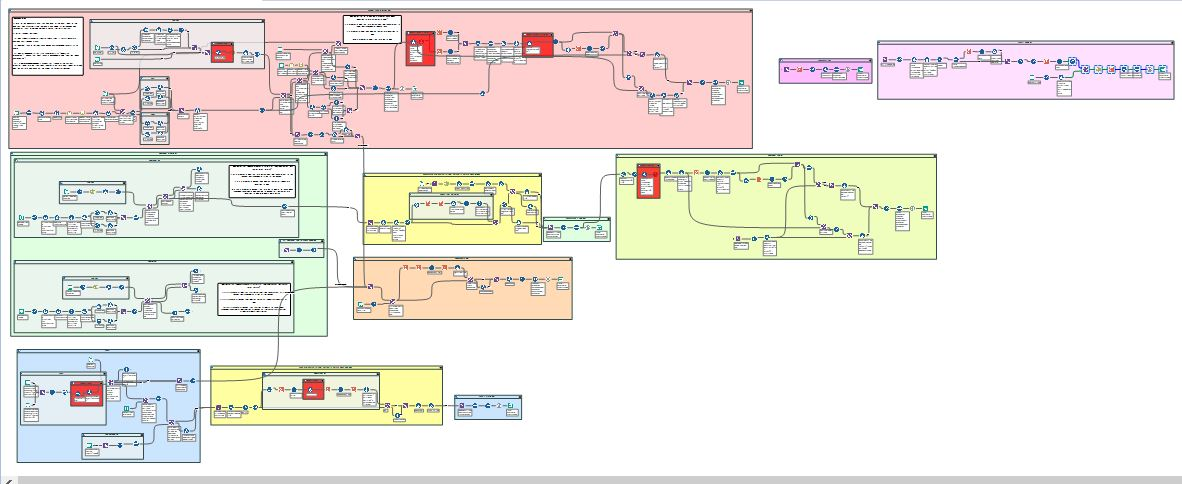
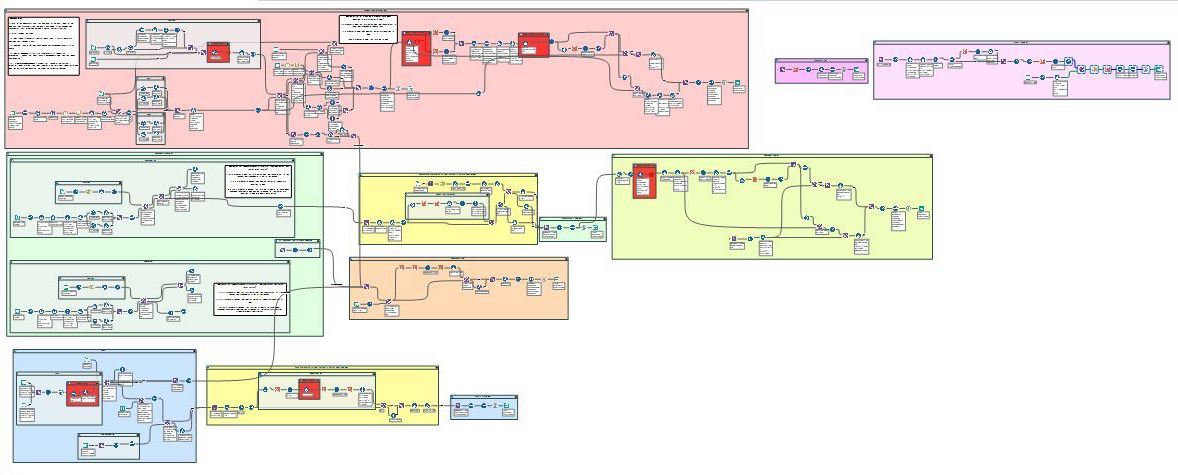
modified:   css/styles.css 	deleted:    images/Alteryx Workflow.JPG 	modified:   images/alteryx_workflow.jpg 	modified:   index.html

Changed region(s): [[0.0, 0.0, 1.0, 1.0]]

diff --git a/css/styles.css b/css/styles.css
@@ -9,4 +9,15 @@
     Description: This file contains all the styles associated with the page
     that don't come from third party libraries. This file gets compiled using
     Gulp and send to the /css folder which is then loaded on the page.
-*/body{font-family:'Lato', sans-serif;font-size:16px}body.active{overflow:hidden;z-index:-1}.no-js #experience-timeline>div{background:#fff;padding:10px;margin-bottom:10px;border:1px solid #dcd9d9}.no-js #experience-timeline>div h3{font-size:1.5em;font-weight:300;color:#374054;display:inline-block;margin:0}.no-js #experience-timeline>div h4{font-size:1.2em;font-weight:300;color:#7e8890;margin:0 0 15px 0}.no-js #experience-timeline>div p{color:#74808a;font-size:0.9em;margin:0}.no-js #experience-timeline:before,.no-js #experience-timeline:after{content:none}@keyframes dropHeader{0%{transform:translateY(-100%)}100%{transform:translateY(0)}}header{position:absolute;top:0;left:0;right:0;text-align:center;z-index:10;animation-name:dropHeader;animation-iteration-count:1;animation-timing-function:ease;animation-duration:0.75s}header ul{display:inline-block;background:#fff;text-align:center;padding:10px;margin:0;border-bottom-right-radius:4px;border-bottom-left-radius:4px}header li{display:inline-block}header a{display:block;color:#3498db;padding:10px}header a:hover{color:#217dbb;text-decoration:none;background:#eee;border-radius:4px}header a:focus{color:#3498db;text-decoration:none}header.active{display:block}header.sticky{position:fixed;z-index:999}#menu.active{display:block}#mobile-menu-open{display:none;cursor:pointer;position:fixed;right:15px;top:10px;color:#3498db;font-size:1.5em;z-index:20;padding:0 7px;border-radius:4px;background:#fff}#mobile-menu-close{display:none;text-align:right;width:100%;background:#fff;font-size:1.5em;padding-right:15px;padding-top:10px;cursor:pointer;color:#3498db}#mobile-menu-close span{font-size:0.5em;text-transform:uppercase}#mobile-menu-close i{vertical-align:middle}footer{padding:50px 0}.copyright{padding-top:20px}.copyright p{margin:0;color:#74808a}.top{text-align:center}.top span{cursor:pointer;display:block;margin:15px auto 0 auto;width:35px;height:35px;border-radius:50%;border:3px solid #b9bfc4;text-align:center}.top i{color:#74808a}.social{text-align:right}.social ul{margin:5px 0 0 0;padding:0}.social li{display:inline-block;font-size:1.25em;list-style:none}.social a{display:block;color:#74808a;padding:10px}.social a:hover{color:#3498db}.btn-rounded-white{display:inline-block;color:#fff;padding:15px 25px;border:3px solid #fff;border-radius:30px;transition:.5s ease all}.btn-rounded-white:hover{color:#3498db;background:#fff;text-decoration:none}.shadow{box-shadow:0 1px 3px rgba(0,0,0,0.12),0 1px 2px rgba(0,0,0,0.24)}.shadow-large{box-shadow:0 3px 6px rgba(0,0,0,0.08),0 3px 6px rgba(0,0,0,0.15)}.heading{position:relative;display:inline-block;font-size:2em;font-weight:300;margin:0 0 30px 0}.heading:after{position:absolute;content:'';top:100%;height:1px;width:50px;left:0;right:0;margin:0 auto;background:#3498db}.background-alt{background:#f2f2f5}#lead{position:relative;height:100vh;min-height:500px;max-height:1080px;background:url(../images/lead-bg.jpg);background-size:cover;padding:15px;overflow:hidden}#lead-content{position:absolute;z-index:10;top:50%;left:50%;transform:translate(-50%, -50%);text-align:center}#lead-content h1,#lead-content h2{margin:0}#lead-content h1{color:#fff;font-weight:900;font-size:5em;text-transform:uppercase;letter-spacing:0.05em;line-height:0.9em}#lead-content h2{color:#a0cfee;font-weight:500;font-size:2.25em;margin-bottom:15px}#lead-overlay{position:absolute;height:100%;width:100%;top:0;right:0;bottom:0;left:0;background:rgba(33,125,187,0.8);z-index:1}#lead-down{position:absolute;left:0;right:0;width:100%;text-align:center;z-index:10;bottom:15px;color:#fff}#lead-down span{cursor:pointer;display:block;margin:0 auto;width:35px;height:35px;border-radius:50%;border:3px solid #a0cfee;text-align:center}#lead-down i{animation:pulsate 1.5s ease;animation-iteration-count:infinite;padding-top:5px}@keyframes pulsate{0%{transform:scale(1, 1)}50%{transform:scale(1.2, 1.2)}100%{transform:scale(1, 1)}}#about{padding:75px 15px;border-bottom:1px solid #dcd9d9}#about h2{color:#374054}#about p{color:#74808a;margin:0}#experience{padding:50px 15px;text-align:center;border-bottom:1px solid #dcd9d9}#experience h2{color:#374054}#experience-timeline{margin:30px auto 0 auto;position:relative;max-width:1000px}#experience-timeline:before{position:absolute;content:'';top:0;bottom:0;left:303px;right:auto;height:100%;width:3px;background:#3498db;z-index:0}#experience-timeline:after{position:absolute;content:'';width:3px;height:40px;background:#3498db;background:linear-gradient(to bottom, #3498db, rgba(52,152,219,0));top:100%;left:303px}.vtimeline-content{margin-left:350px;background:#fff;border:1px solid #e6e6e6;padding:15px;border-radius:3px;text-align:left}.vtimeline-content h3{font-size:1.5em;font-weight:300;color:#374054;display:inline-block;margin:0}.vtimeline-content h4{font-size:1.2em;font-weight:300;color:#7e8890;margin:0 0 15px 0}.vtimeline-content p{color:#74808a;font-size:0.9em;margin:0}.vtimeline-point{position:relative;display:block;vertical-align:top;margin-bottom:30px}.vtimeline-icon{position:relative;color:#fff;width:50px;height:50px;background:#3498db;border-radius:50%;float:left;z-index:99;margin-left:280px}.vtimeline-icon i{display:block;font-size:2em;margin-top:10px}.vtimeline-date{width:260px;text-align:right;position:absolute;left:0;top:10px;font-weight:300;color:#374054}#education{padding:50px 15px 20px 15px;border-bottom:1px solid #dcd9d9;text-align:center}#education h2{color:#374054;margin-bottom:50px}.education-block{max-width:700px;margin:0 auto 30px auto;padding:15px;border:1px solid #dcd9d9;text-align:left}.education-block h3{font-weight:500;float:left;margin:0;color:#374054}.education-block span{color:#74808a;float:right}.education-block h4{color:#74808a;clear:both;font-weight:500;margin:0 0 15px 0}.education-block p,.education-block ul{margin:0;color:#74808a;font-size:0.9em}.education-block ul{padding:0 0 0 15px}#projects{padding:50px 15px;border-bottom:1px solid #dcd9d9;text-align:center}#projects h2{color:#374054;margin-bottom:50px}.project{position:relative;max-width:900px;margin:0 auto 30px auto;overflow:hidden;background:#fff;border-radius:4px}.project-image{float:left}.project-info{position:absolute;top:50%;transform:translateY(-50%);margin-left:300px;padding:15px}.project-info h3{font-size:1.5em;font-weight:300;color:#374054;margin:0 0 15px 0}.project-info p{color:#74808a;margin:0 0 15px 0;font-size:0.9em}.no-image .project-info{position:relative;margin:0;padding:30px 15px;transform:none}#more-projects{display:none}#skills{padding:50px 15px;text-align:center}#skills h2{color:#374054;margin-bottom:50px}#skills ul{display:block;margin:0 auto;padding:0;max-width:800px}#skills li{display:inline-block;margin:7px;padding:5px 10px;color:#374054;background:#e4e4ea;list-style:none;cursor:default;font-size:1.2em}#contact{padding:50px 15px;background:#3498db;text-align:center}#contact h2{margin:0 0 15px 0;color:#fff;font-weight:500}#contact-form{max-width:500px;margin:0 auto}#contact-form input,#contact-form textarea{display:block;width:100%;padding:10px;border-radius:4px;border:none;margin-bottom:10px;background:#1d6fa5;color:#fff;transition:.5s ease all}#contact-form input::-webkit-input-placeholder,#contact-form textarea::-webkit-input-placeholder{color:#fff}#contact-form input:-moz-placeholder,#contact-form textarea:-moz-placeholder{color:#fff;opacity:1}#contact-form input::-moz-placeholder,#contact-form textarea::-moz-placeholder{color:#fff;opacity:1}#contact-form input:-ms-input-placeholder,#contact-form textarea:-ms-input-placeholder{color:#fff}#contact-form input:focus,#contact-form textarea:focus{outline:none;background:#16527a}#contact-form textarea{height:150px;resize:none}#contact-form button{display:block;width:100%;background:#fff;border-radius:4px;padding:5px 10px;border:none;color:#3498db;font-weight:700;box-shadow:0 1px 3px rgba(0,0,0,0.12),0 1px 2px rgba(0,0,0,0.24);transition:.5s ease all}#contact-form button:hover{box-shadow:0 10px 20px rgba(0,0,0,0.19),0 6px 6px rgba(0,0,0,0.23)}.optional-section{padding:50px 15px;text-align:center;border-top:1px solid #dcd9d9}.optional-section h2{color:#374054}.optional-section-block{max-width:700px;margin:0 auto 30px auto;padding:15px;border:1px solid #dcd9d9;background:#fff;text-align:left}.optional-section-block h3{font-weight:500;margin:0 0 15px 0;color:#374054}.optional-section-block h4{color:#74808a;clear:both;font-weight:500;margin:0 0 15px 0}.optional-section-block p,.optional-section-block ul{margin:0 0 15px 0;color:#74808a;font-size:0.9em}.optional-section-block ul{padding:0 0 0 15px}@media only screen and (max-width: 750px){#experience-timeline:before,#experience-timeline:after{left:23px}.vtimeline-date{width:auto;text-align:left;position:relative;margin-bottom:15px;display:block;margin-left:70px}.vtimeline-icon{margin-left:0}.vtimeline-content{margin-left:70px}}@media only screen and (max-width: 992px){#lead{height:auto;min-height:auto;max-height:auto;padding:100px 15px}#lead-content{position:relative;transform:none;left:auto;top:auto}#lead-content h1{font-size:3em}#lead-content h2{font-size:1.75em}#about{text-align:center}#about p{text-align:left}}@media only screen and (max-width: 768px){header{position:fixed;display:none;z-index:999;animation:none;bottom:0;height:100%}#mobile-menu-open,#mobile-menu-close{display:block}#menu{height:100%;overflow-y:auto;box-shadow:none;border-radius:0;width:100%}#menu li{display:block;margin-bottom:10px}#lead-content h1{font-size:2em}#lead-content h2{font-size:1.3em}#lead-content a{padding:10px 20px}#lead-down{display:none}.education-block h3,.education-block span{float:none}.project-image{display:none}.project-info{position:relative;margin:0;padding:30px 15px;top:auto;transform:none}footer{text-align:center}.social{text-align:center}}@media only screen and (max-width: 480px){#lead-content h1{font-size:1.5em}#lead-content h2{font-size:1em}#lead-content a{font-size:0.9em;padding:5px 10px}}
+*/body{font-family:'Lato', sans-serif;font-size:16px}body.active{overflow:hidden;z-index:-1}.no-js #experience-timeline>div{background:#fff;padding:10px;margin-bottom:10px;border:1px solid #dcd9d9}.no-js #experience-timeline>div h3{font-size:1.5em;font-weight:300;color:#374054;display:inline-block;margin:0}.no-js #experience-timeline>div h4{font-size:1.2em;font-weight:300;color:#7e8890;margin:0 0 15px 0}.no-js #experience-timeline>div p{color:#74808a;font-size:0.9em;margin:0}.no-js #experience-timeline:before,.no-js #experience-timeline:after{content:none}@keyframes dropHeader{0%{transform:translateY(-100%)}100%{transform:translateY(0)}}header{position:absolute;top:0;left:0;right:0;text-align:center;z-index:10;animation-name:dropHeader;animation-iteration-count:1;animation-timing-function:ease;animation-duration:0.75s}header ul{display:inline-block;background:#fff;text-align:center;padding:10px;margin:0;border-bottom-right-radius:4px;border-bottom-left-radius:4px}header li{display:inline-block}header a{display:block;color:#3498db;padding:10px}header a:hover{color:#217dbb;text-decoration:none;background:#eee;border-radius:4px}header a:focus{color:#3498db;text-decoration:none}header.active{display:block}header.sticky{position:fixed;z-index:999}#menu.active{display:block}#mobile-menu-open{display:none;cursor:pointer;position:fixed;right:15px;top:10px;color:#3498db;font-size:1.5em;z-index:20;padding:0 7px;border-radius:4px;background:#fff}#mobile-menu-close{display:none;text-align:right;width:100%;background:#fff;font-size:1.5em;padding-right:15px;padding-top:10px;cursor:pointer;color:#3498db}#mobile-menu-close span{font-size:0.5em;text-transform:uppercase}#mobile-menu-close i{vertical-align:middle}footer{padding:50px 0}.copyright{padding-top:20px}.copyright p{margin:0;color:#74808a}.top{text-align:center}.top span{cursor:pointer;display:block;margin:15px auto 0 auto;width:35px;height:35px;border-radius:50%;border:3px solid #b9bfc4;text-align:center}.top i{color:#74808a}.social{text-align:right}.social ul{margin:5px 0 0 0;padding:0}.social li{display:inline-block;font-size:1.25em;list-style:none}.social a{display:block;color:#74808a;padding:10px}.social a:hover{color:#3498db}.btn-rounded-white{display:inline-block;color:#fff;padding:15px 25px;border:3px solid #fff;border-radius:30px;transition:.5s ease all}.btn-rounded-white:hover{color:#3498db;background:#fff;text-decoration:none}.shadow{box-shadow:0 1px 3px rgba(0,0,0,0.12),0 1px 2px rgba(0,0,0,0.24)}.shadow-large{box-shadow:0 3px 6px rgba(0,0,0,0.08),0 3px 6px rgba(0,0,0,0.15)}.heading{position:relative;display:inline-block;font-size:2em;font-weight:300;margin:0 0 30px 0}.heading:after{position:absolute;content:'';top:100%;height:1px;width:50px;left:0;right:0;margin:0 auto;background:#3498db}.background-alt{background:#f2f2f5}#lead{position:relative;height:100vh;min-height:500px;max-height:1080px;background:url(../images/lead-bg.jpg);background-size:cover;padding:15px;overflow:hidden}#lead-content{position:absolute;z-index:10;top:50%;left:50%;transform:translate(-50%, -50%);text-align:center}#lead-content h1,#lead-content h2{margin:0}#lead-content h1{color:#fff;font-weight:900;font-size:5em;text-transform:uppercase;letter-spacing:0.05em;line-height:0.9em}#lead-content h2{color:#a0cfee;font-weight:500;font-size:2.25em;margin-bottom:15px}#lead-overlay{position:absolute;height:100%;width:100%;top:0;right:0;bottom:0;left:0;background:rgba(33,125,187,0.8);z-index:1}#lead-down{position:absolute;left:0;right:0;width:100%;text-align:center;z-index:10;bottom:15px;color:#fff}#lead-down span{cursor:pointer;display:block;margin:0 auto;width:35px;height:35px;border-radius:50%;border:3px solid #a0cfee;text-align:center}#lead-down i{animation:pulsate 1.5s ease;animation-iteration-count:infinite;padding-top:5px}@keyframes pulsate{0%{transform:scale(1, 1)}50%{transform:scale(1.2, 1.2)}100%{transform:scale(1, 1)}}#about{padding:75px 15px;border-bottom:1px solid #dcd9d9}#about h2{color:#374054}#about p{color:#74808a;margin:0}#experience{padding:50px 15px;text-align:center;border-bottom:1px solid #dcd9d9}#experience h2{color:#374054}#experience-timeline{margin:30px auto 0 auto;position:relative;max-width:1000px}#experience-timeline:before{position:absolute;content:'';top:0;bottom:0;left:303px;right:auto;height:100%;width:3px;background:#3498db;z-index:0}#experience-timeline:after{position:absolute;content:'';width:3px;height:40px;background:#3498db;background:linear-gradient(to bottom, #3498db, rgba(52,152,219,0));top:100%;left:303px}.vtimeline-content{margin-left:350px;background:#fff;border:1px solid #e6e6e6;padding:15px;border-radius:3px;text-align:left}.vtimeline-content h3{font-size:1.5em;font-weight:300;color:#374054;display:inline-block;margin:0}.vtimeline-content h4{font-size:1.2em;font-weight:300;color:#7e8890;margin:0 0 15px 0}.vtimeline-content p{color:#74808a;font-size:0.9em;margin:0}.vtimeline-point{position:relative;display:block;vertical-align:top;margin-bottom:30px}.vtimeline-icon{position:relative;color:#fff;width:50px;height:50px;background:#3498db;border-radius:50%;float:left;z-index:99;margin-left:280px}.vtimeline-icon i{display:block;font-size:2em;margin-top:10px}.vtimeline-date{width:260px;text-align:right;position:absolute;left:0;top:10px;font-weight:300;color:#374054}#education{padding:50px 15px 20px 15px;border-bottom:1px solid #dcd9d9;text-align:center}#education h2{color:#374054;margin-bottom:50px}.education-block{max-width:700px;margin:0 auto 30px auto;padding:15px;border:1px solid #dcd9d9;text-align:left}.education-block h3{font-weight:500;float:left;margin:0;color:#374054}.education-block span{color:#74808a;float:right}.education-block h4{color:#74808a;clear:both;font-weight:500;margin:0 0 15px 0}.education-block p,.education-block ul{margin:0;color:#74808a;font-size:0.9em}.education-block ul{padding:0 0 0 15px}#projects{padding:50px 15px;border-bottom:1px solid #dcd9d9;text-align:center}#projects h2{color:#374054;margin-bottom:50px}.project{position:relative;max-width:900px;margin:0 auto 30px auto;overflow:hidden;background:#fff;border-radius:4px}
+.project-image{float:left}
+.project-info{position:absolute;top:50%;transform:translateY(-50%);margin-left:300px;padding:15px}
+.project-image-vertical img{max-width: 900px}
+.project-info h3{font-size:1.5em;font-weight:300;color:#374054;margin:0 0 15px 0}
+.project-info p{color:#74808a;margin:0 0 15px 0;font-size:0.9em}
+.project-info-vertical h3{font-size:1.5em;font-weight:300;color:#374054;margin:0 15px 15px 15px}
+.project-info-vertical p{color:#74808a;margin:0 12px 12px 0;font-size:0.9em}
+.no-image 
+.project-info{position:relative;margin:0;padding:30px 15px;transform:none}
+#more-projects{display:none}#skills{padding:50px 15px;text-align:center}#skills h2{color:#374054;margin-bottom:50px}#skills ul{display:block;margin:0 auto;padding:0;max-width:800px}#skills li{display:inline-block;margin:7px;padding:5px 10px;color:#374054;background:#e4e4ea;list-style:none;cursor:default;font-size:1.2em}#contact{padding:50px 15px;background:#3498db;text-align:center}#contact h2{margin:0 0 15px 0;color:#fff;font-weight:500}#contact-form{max-width:500px;margin:0 auto}#contact-form input,#contact-form textarea{display:block;width:100%;padding:10px;border-radius:4px;border:none;margin-bottom:10px;background:#1d6fa5;color:#fff;transition:.5s ease all}#contact-form input::-webkit-input-placeholder,#contact-form textarea::-webkit-input-placeholder{color:#fff}#contact-form input:-moz-placeholder,#contact-form textarea:-moz-placeholder{color:#fff;opacity:1}#contact-form input::-moz-placeholder,#contact-form textarea::-moz-placeholder{color:#fff;opacity:1}#contact-form input:-ms-input-placeholder,#contact-form textarea:-ms-input-placeholder{color:#fff}#contact-form input:focus,#contact-form textarea:focus{outline:none;background:#16527a}#contact-form textarea{height:150px;resize:none}#contact-form button{display:block;width:100%;background:#fff;border-radius:4px;padding:5px 10px;border:none;color:#3498db;font-weight:700;box-shadow:0 1px 3px rgba(0,0,0,0.12),0 1px 2px rgba(0,0,0,0.24);transition:.5s ease all}#contact-form button:hover{box-shadow:0 10px 20px rgba(0,0,0,0.19),0 6px 6px rgba(0,0,0,0.23)}.optional-section{padding:50px 15px;text-align:center;border-top:1px solid #dcd9d9}.optional-section h2{color:#374054}.optional-section-block{max-width:700px;margin:0 auto 30px auto;padding:15px;border:1px solid #dcd9d9;background:#fff;text-align:left}.optional-section-block h3{font-weight:500;margin:0 0 15px 0;color:#374054}.optional-section-block h4{color:#74808a;clear:both;font-weight:500;margin:0 0 15px 0}.optional-section-block p,.optional-section-block ul{margin:0 0 15px 0;color:#74808a;font-size:0.9em}.optional-section-block ul{padding:0 0 0 15px}@media only screen and (max-width: 750px){#experience-timeline:before,#experience-timeline:after{left:23px}.vtimeline-date{width:auto;text-align:left;position:relative;margin-bottom:15px;display:block;margin-left:70px}.vtimeline-icon{margin-left:0}.vtimeline-content{margin-left:70px}}@media only screen and (max-width: 992px){#lead{height:auto;min-height:auto;max-height:auto;padding:100px 15px}#lead-content{position:relative;transform:none;left:auto;top:auto}#lead-content h1{font-size:3em}#lead-content h2{font-size:1.75em}#about{text-align:center}#about p{text-align:left}}@media only screen and (max-width: 768px){header{position:fixed;display:none;z-index:999;animation:none;bottom:0;height:100%}#mobile-menu-open,#mobile-menu-close{display:block}#menu{height:100%;overflow-y:auto;box-shadow:none;border-radius:0;width:100%}#menu li{display:block;margin-bottom:10px}#lead-content h1{font-size:2em}#lead-content h2{font-size:1.3em}#lead-content a{padding:10px 20px}#lead-down{display:none}.education-block h3,.education-block span{float:none}
+.project-image{display:none}.project-info{position:relative;margin:0;padding:30px 15px;top:auto;transform:none}footer{text-align:center}.social{text-align:center}}@media only screen and (max-width: 480px){#lead-content h1{font-size:1.5em}#lead-content h2{font-size:1em}#lead-content a{font-size:0.9em;padding:5px 10px}}

diff --git a/index.html b/index.html
@@ -168,19 +168,19 @@ I completed project presenting a plan of action to make data-driven decisions an
         <h2 class="heading">Projects</h2>
         <div class="container">
             <div class="row">
-		<div class="project shadow-large">
-                    <div class="project-image">
-                         <a href="" target="_blank"> <img src="images/alteryx_workflow.jpg" /></a>
+		        <div class="project shadow-large">
+                    <div class="project-image-vertical">
+                        <img src="images/alteryx_workflow.jpg" />
                     </div>
                     <!-- End .project-image -->
-                    <div class="project-info">
+                    <div class="project-info-vertical">
                         <h3>Alteryx Workflow</h3>
                         <p>
                         	This workflow connects data across several apps and ouputs a report with issues encountered in the data. After extracting several reports from various applications and in different formats, it first cleans the data in the input files and transforms it to be able to compare the data between sources. The workflow has several macros built in that validate the data against a very large Teradata database using dynamic SQL queries. It then generates several reports with corresponding comments explaining the issues encountered for each entry.    
-			</p>
-			<p>
-				The results from this workflow have been used to document the need of improved processes and apps that automate workflows in order to reduce data discrepancies, improve billing accuracy and grow revenue for the company. 
-			</p>
+                        </p>
+                        <p>
+				            The results from this workflow have been used to document the need of improved processes and apps that automate workflows in order to reduce data discrepancies, improve billing accuracy and grow revenue for the company. 
+			            </p>
                     </div>
                     <!-- End .project-info -->
                 </div>
